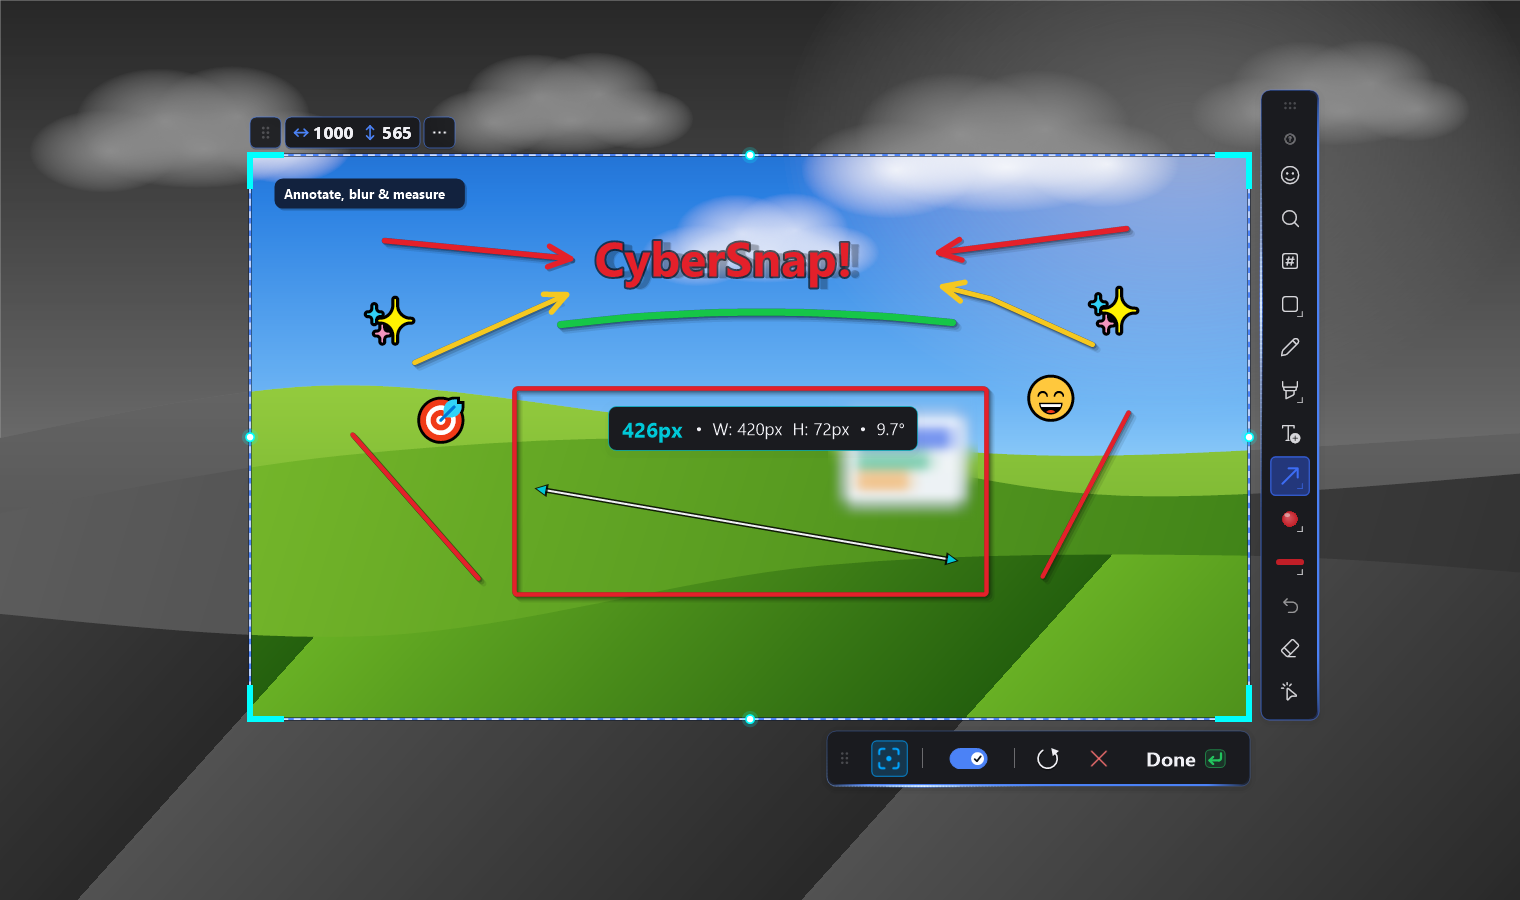
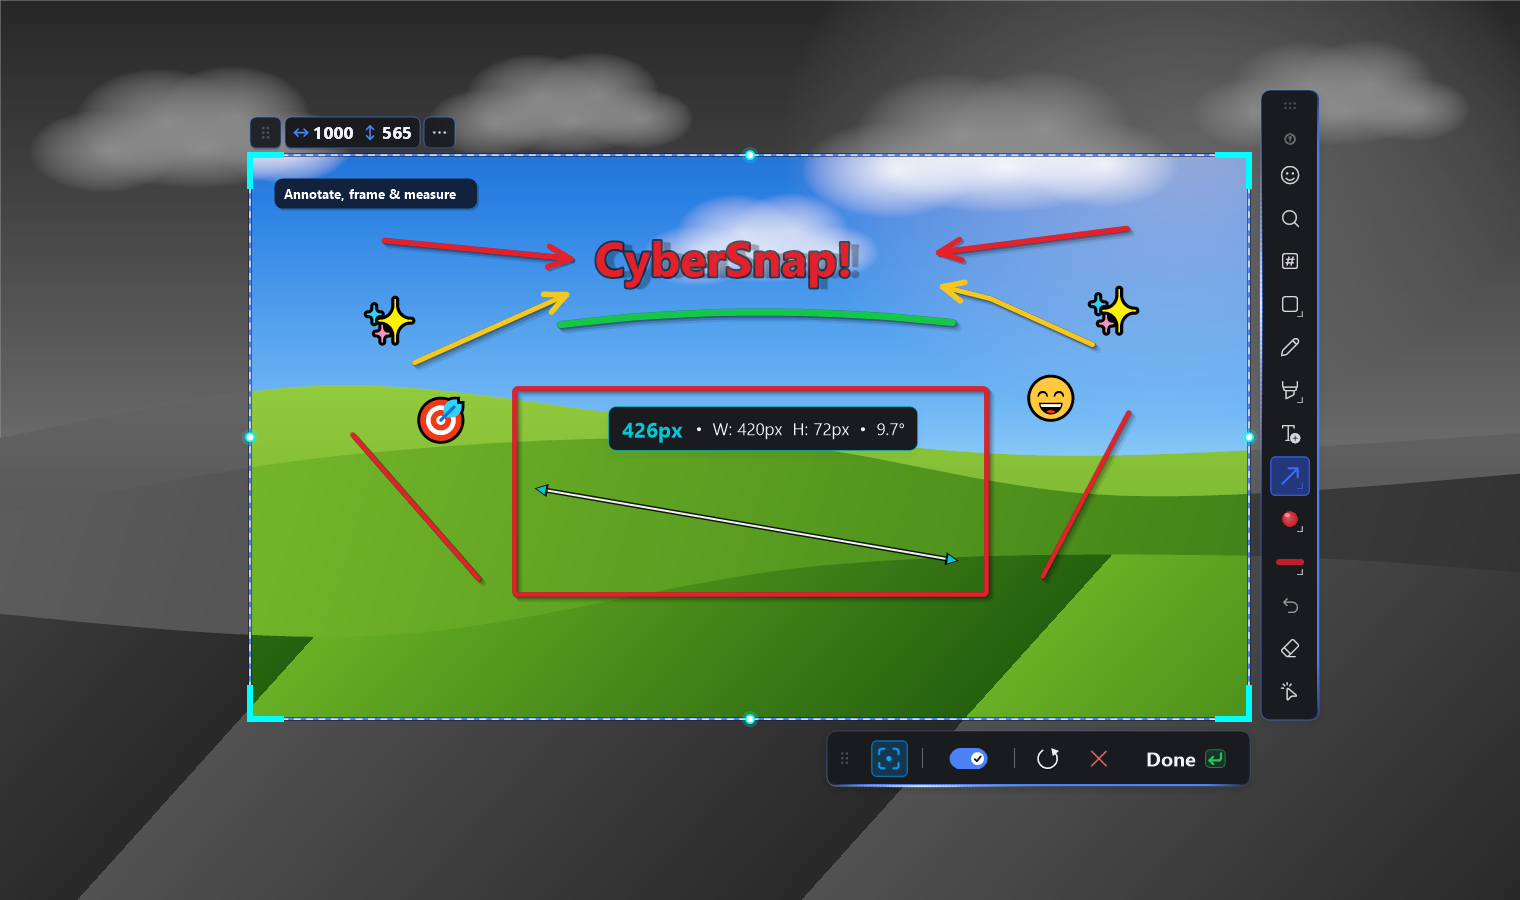
Polish CyberSnap README screenshots

Changed region(s): [[0.5257, 0.4356, 0.6493, 0.5911], [0.2474, 0.1867, 0.3401, 0.2489]]

diff --git a/README.es.md b/README.es.md
@@ -71,9 +71,10 @@ Una captura suele necesitar cuatro herramientas: una para tomarla, otra para ano
 ## 🖼 Capturas
 
 <p align="center">
-  <img src="./docs/screenshots/main-es.png" alt="Superposición de captura de CyberSnap con barra flotante de anotaciones, flechas, difuminado, regla y barra de confirmación" />
+  <img src="./docs/screenshots/main-es.png" alt="Superposición de captura de CyberSnap con barra flotante de anotaciones, flechas, recuadro, regla y barra de confirmación" />
 </p>
-<p align="center"><em>Superposición de selección y anotaciones en pantalla con flechas, trazo libre, difuminado, regla en píxeles y controles de confirmación.</em></p>
+<p align="center"><em>Superposición de selección y anotaciones en pantalla con flechas, trazo libre, formas, regla en píxeles y controles de confirmación.</em></p>
+
 ---
 
 ## 📸 ¿Por qué CyberSnap?

diff --git a/README.md b/README.md
@@ -72,9 +72,10 @@ A screenshot usually takes four tools: one to grab it, one to annotate it, one t
 ## 🖼 Screenshots
 
 <p align="center">
-  <img src="./docs/screenshots/main-en.png" alt="CyberSnap capture overlay with floating annotation dock, arrows, blur, ruler readout and confirmation bar" />
+  <img src="./docs/screenshots/main-en.png" alt="CyberSnap capture overlay with floating annotation dock, arrows, rectangle, ruler readout and confirmation bar" />
 </p>
-<p align="center"><em>On-screen region selection and annotation overlay with arrows, freehand strokes, blur, ruler measurements and quick confirmation controls.</em></p>
+<p align="center"><em>On-screen region selection and annotation overlay with arrows, freehand strokes, shapes, ruler measurements and quick confirmation controls.</em></p>
+
 ---
 
 ## 📸 Why CyberSnap?
